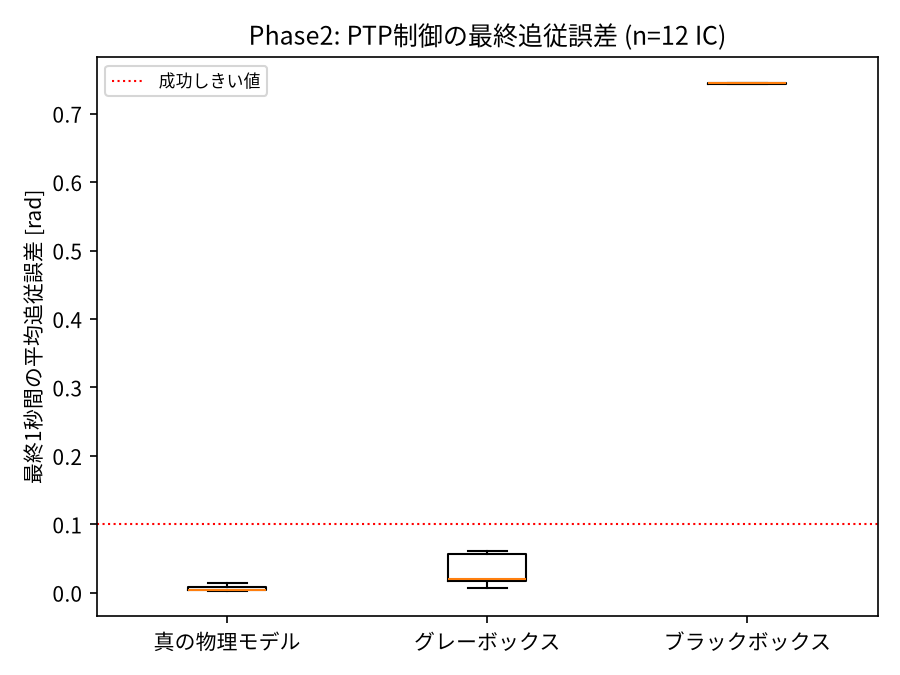
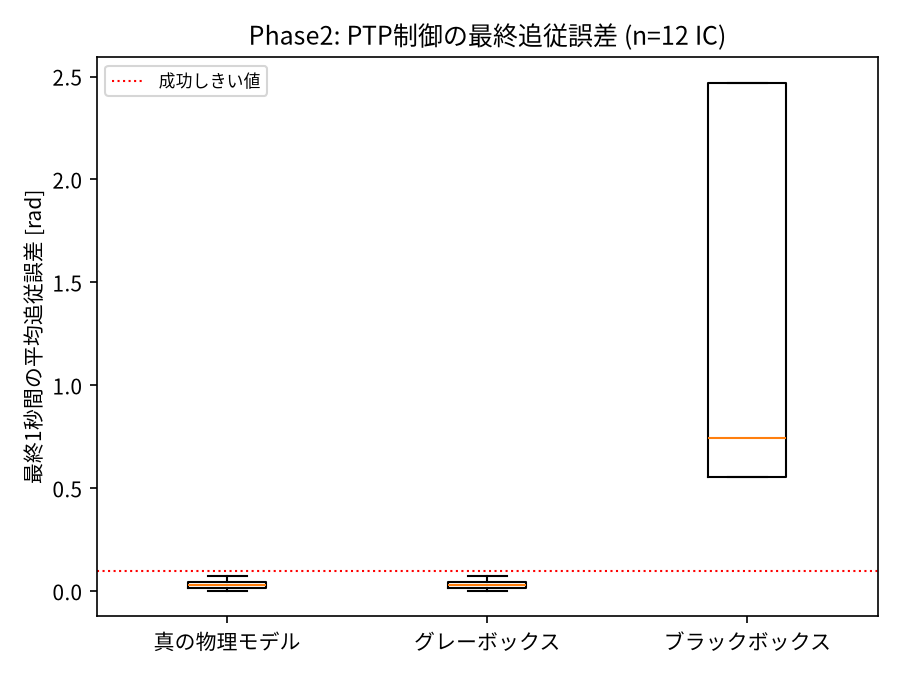
Phase2-M13: C_COULOMBを引き上げて識別可能な比率に回復、劇的に改善
M12の知見(coulomb/viscous比の識別性への影響)を実際のシステムに適用。
C_VISCOUSを下げる方向は棄却サンプリングの採択率が急落する(0.5でも
8.4%)ため非現実的と判明したため、代わりに真のモデルのC_COULOMBを
0.02→0.4に引き上げ、Phase1と同じ比率(0.4)を回復した。この変更は
摩擦全体の増加によりむしろ棄却サンプリングの採択率を改善する(67%→76%,
n=500)ことを確認済み。

結果:
- 学習された摩擦係数: c_viscous=[0.9999,0.9999], c_coulomb=[0.400,0.401]
  (真値とほぼ完全に一致)
- 整定時間差: 平均7.03s→0.008s、最大15.34s→0.04s
  (Phase1の最良結果である平均3.54sすら上回る精度)
- 開ループロールアウトRMSE: 0.03〜0.24→0.0001〜0.0003(ほぼ機械精度)
- PTP最終誤差は全12ICで真値と小数点以下まで一致

カオス対策(粘性摩擦の増加)と摩擦の識別性(クーロン摩擦の相対比率)は
独立に調整可能なパラメータであり、両立できることが判明した。

Claude-Session: https://claude.ai/code/session_01Rvrf6mcbh1UrexApn66z2b

diff --git a/src/physics_vertical.py b/src/physics_vertical.py
@@ -26,7 +26,13 @@ GRAVITY = 9.81
 # 摩擦の線形ゲインを学習しきれず、PTP制御が持続振動することが判明。
 # dataset_vertical.pyの棄却サンプリング(角速度上限)と併用する前提で1.0に緩和。
 C_VISCOUS = np.array([1.0, 1.0])
-C_COULOMB = np.array([0.02, 0.02])
+# Phase2-M12/M13 (#43, #45): C_COULOMB=0.02のままだとcoulomb/viscous比が
+# 0.02(Phase1は0.4)まで薄まり、グレーボックスがクーロン係数を識別できない
+# ことが判明した。C_VISCOUSを下げる方向は棄却サンプリングの採択率が
+# 急落し非現実的(0.5でも8.4%)だったため、C_COULOMBをPhase1と同じ比率
+# (0.4)になるよう引き上げる。この変更はむしろ棄却サンプリングの採択率を
+# 改善する(全体の摩擦が増えカオス的発散が抑えられるため)ことを確認済み。
+C_COULOMB = np.array([0.4, 0.4])
 V_STRIBECK = 0.03
 
 

diff --git a/README.md b/README.md
@@ -223,6 +223,19 @@ pip install -r requirements.txt
   真値と一致**した(M10/M11の2連敗とは対照的)。クーロン摩擦のサロゲート化
   自体は原理的に可能で、Phase2で不完全だったのはM2のカオス対策の副作用
   という設計上のトレードオフに起因すると結論づけた。
+- **Phase2-M13** (完了, #45): M12の知見を実際のシステムに適用。C_VISCOUSを
+  下げる方向は棄却サンプリングの採択率が急落する(0.5でも8.4%)ため非現実的
+  と判明したため、代わりに**真のモデルのC_COULOMBを0.02→0.4に引き上げ**、
+  Phase1と同じ比率(0.4)を回復した(この変更は摩擦全体の増加によりむしろ
+  棄却サンプリングの採択率を改善する: 67%→76%)。結果は劇的だった:
+  - 学習された摩擦係数: c_viscous=[0.9999,0.9999], c_coulomb=[0.400,0.401]
+    (真値とほぼ完全に一致)
+  - **整定時間差: 平均7.03s→0.008s、最大15.34s→0.04s**(Phase 1の最良
+    結果である平均3.54sすら上回る精度)
+  - 開ループロールアウトRMSE: 0.03〜0.24→**0.0001〜0.0003**(ほぼ機械精度)
+  - PTP最終誤差は全12ICで真値と小数点以下まで一致
+  カオス対策と摩擦の識別性は、摩擦の内訳(粘性 vs クーロン)を調整する
+  ことで両立できることが判明し、Phase 2もPhase 1と同等以上の精度に到達した。
 
 ## ディレクトリ構成
 
